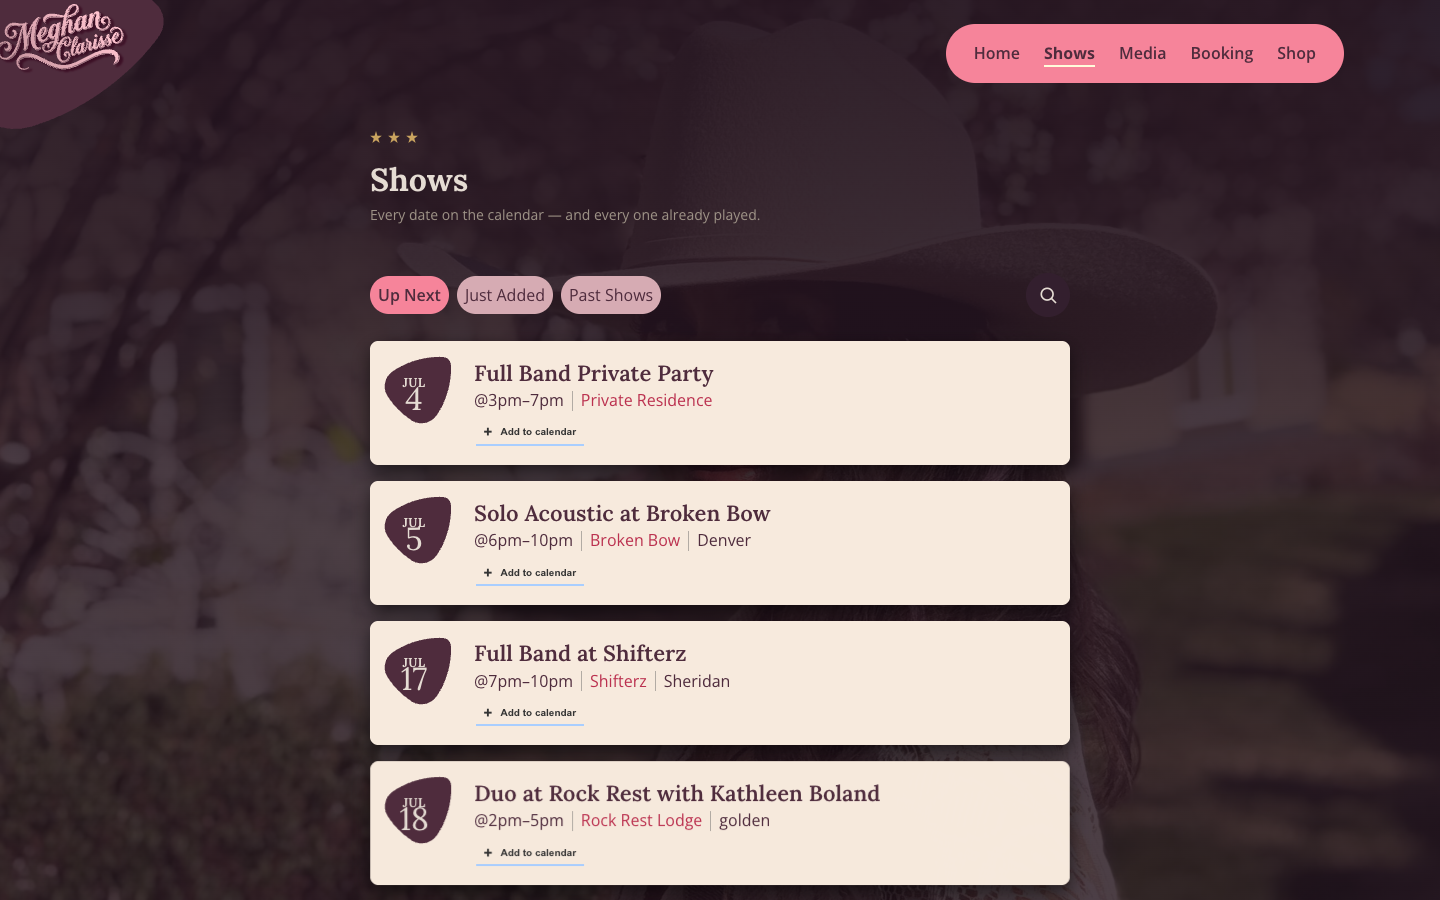
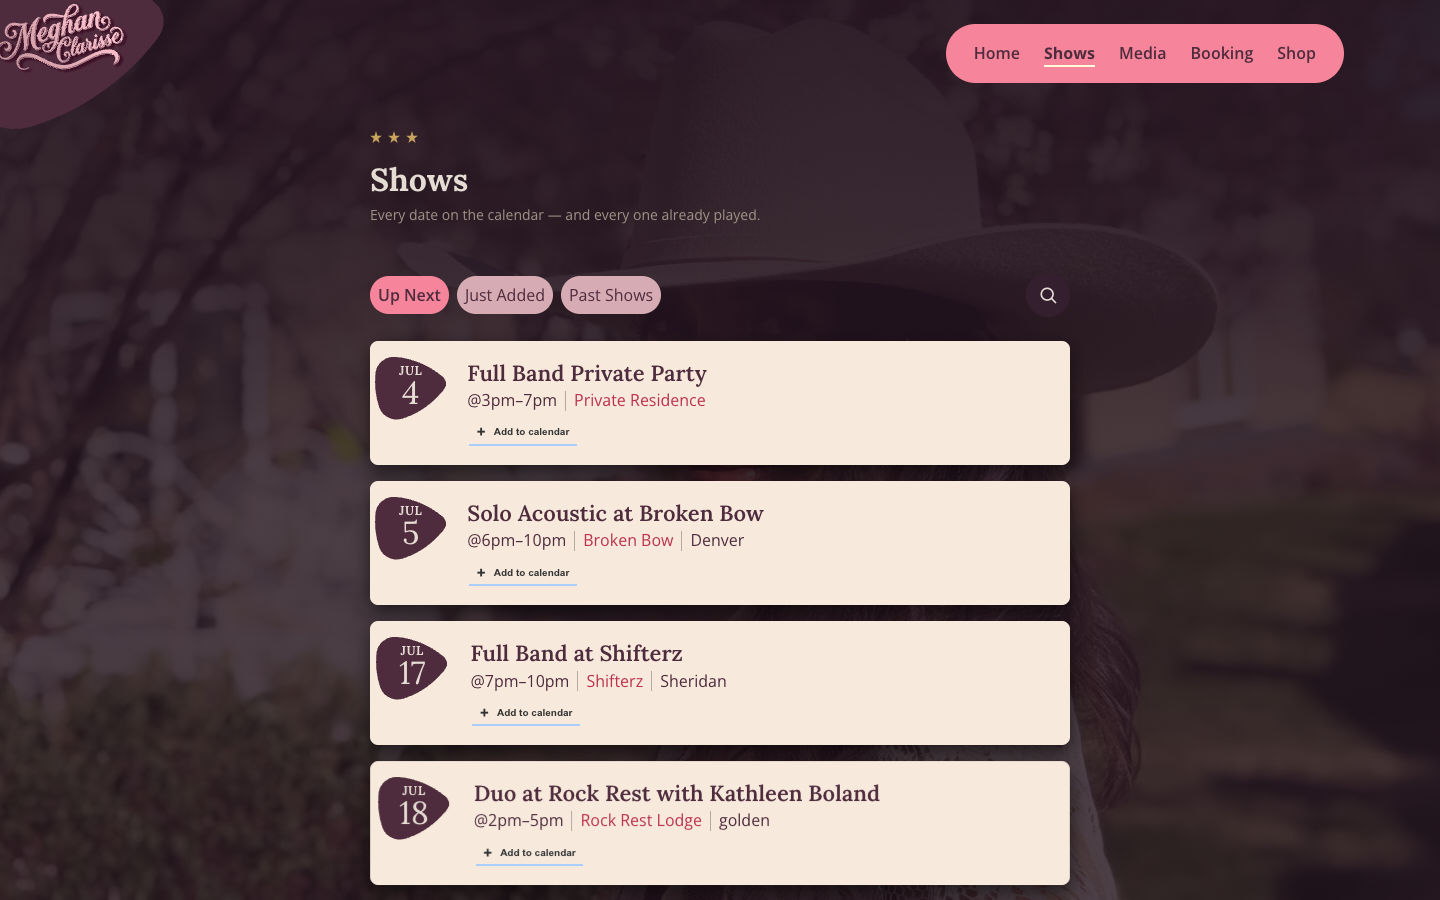
fix(shows): restore pick rotation, add month/day breathing room
Revert the date-badge pick to rotate(-96.04deg) (the original orientation
was correct; -135 was a wrong turn). Fix the month→day spacing: switch the
month/day to line-height:normal so the -6px tuck leaves a couple px of
breathing room under the month, per Figma, instead of reading flush.

diff --git a/src/components/ShowCard/ShowCard.module.css b/src/components/ShowCard/ShowCard.module.css
@@ -40,20 +40,15 @@
   flex-direction: column;
   align-items: center;
   flex-shrink: 0;
-  /* Fixed frame width (Figma 110:133 37.17 ×1.514) so the centred month/day
-     land in the pick's left lobe, with the pick offset right behind them. */
-  box-sizing: border-box;
-  width: 56px;
-  padding: 17px 0 0;
+  padding: 3px 13px 0;
   color: var(--mc-text-primary);
 }
 
 .pickWrap {
-  /* Figma 110:134 places the pick behind the text, offset up-left from the
-     badge origin (values ×1.514 from the mobile comp), not centered. */
   position: absolute;
-  left: -1px;
-  top: -10px;
+  left: 50%;
+  top: 50%;
+  transform: translate(-50%, -50%);
   display: flex;
   align-items: center;
   justify-content: center;
@@ -66,10 +61,7 @@
 .pick {
   width: 62.861px;
   height: 71.059px;
-  /* The inlined vector's natural orientation is ~39° off Figma's pick asset, so
-     -135° (not the -96.04° in the Figma layer) lands the point bottom-left /
-     shoulder top-right to match the comp (39:23, 110:134). */
-  transform: rotate(-135deg);
+  transform: rotate(-96.04deg);
 }
 
 .month,
@@ -77,11 +69,14 @@
   position: relative;
   z-index: 1;
   font-family: var(--mc-font-display);
-  line-height: 1;
+  /* Figma uses normal leading; the month's -6px tuck relies on that leading to
+     leave a couple px of breathing room under the month (line-height:1 kills it
+     and reads flush). */
+  line-height: normal;
 }
 
 .month {
-  margin-bottom: -6px; /* Figma 110:135 mb tuck (×1.514), pulls the day up under the month */
+  margin-bottom: -6px; /* Figma 110:135 autolayout gap — a few px under the month */
   font-weight: 700;
   font-size: var(--mc-text-2xs);
   letter-spacing: 0.04em;
